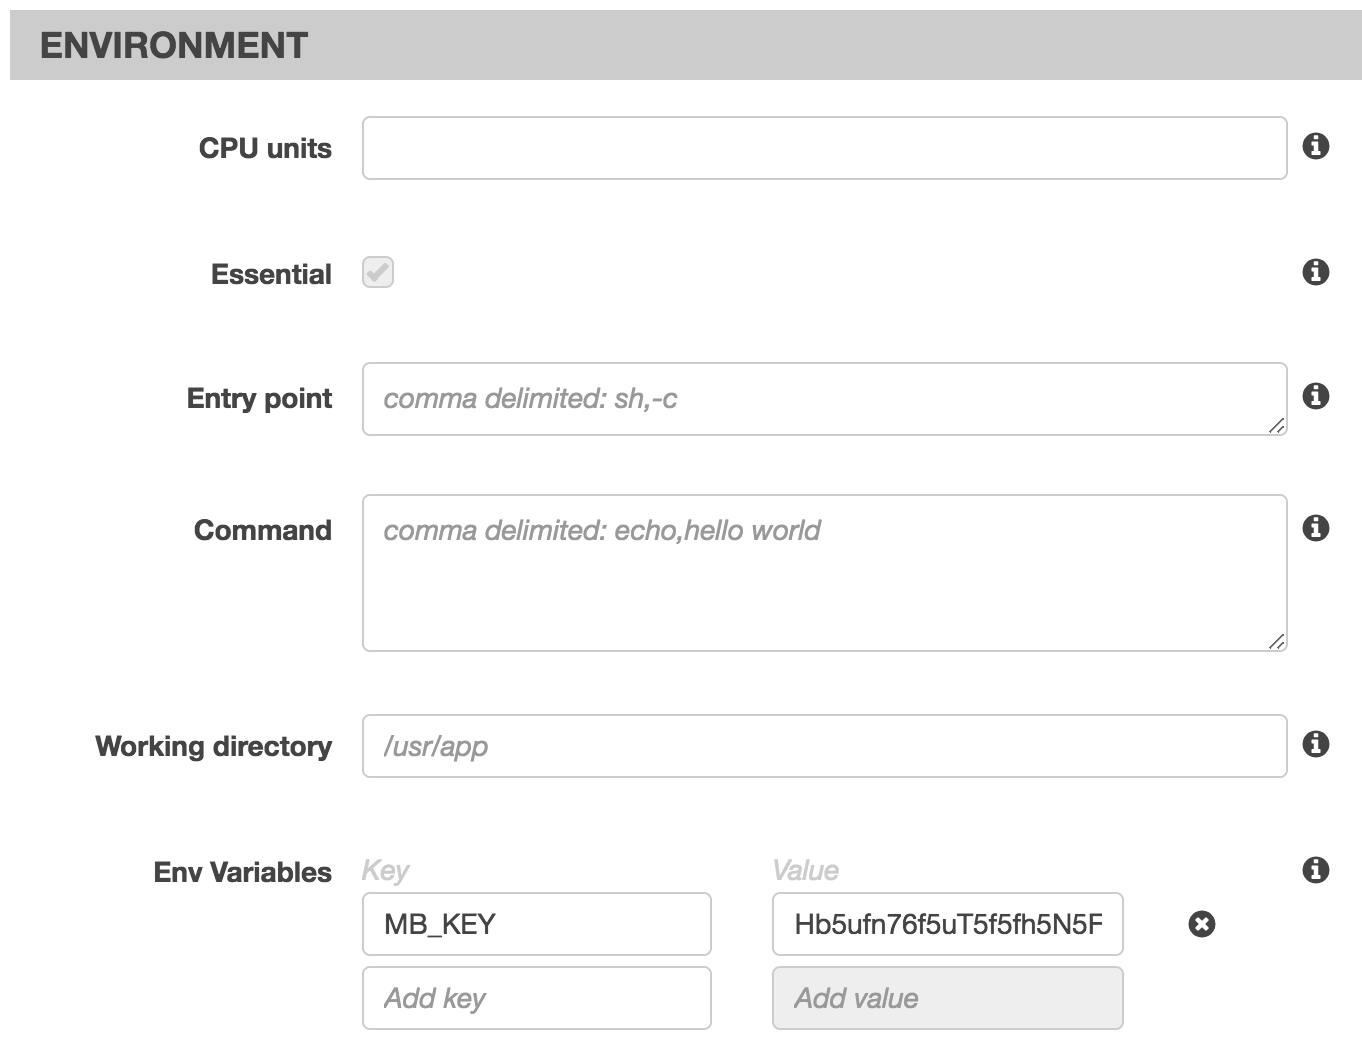
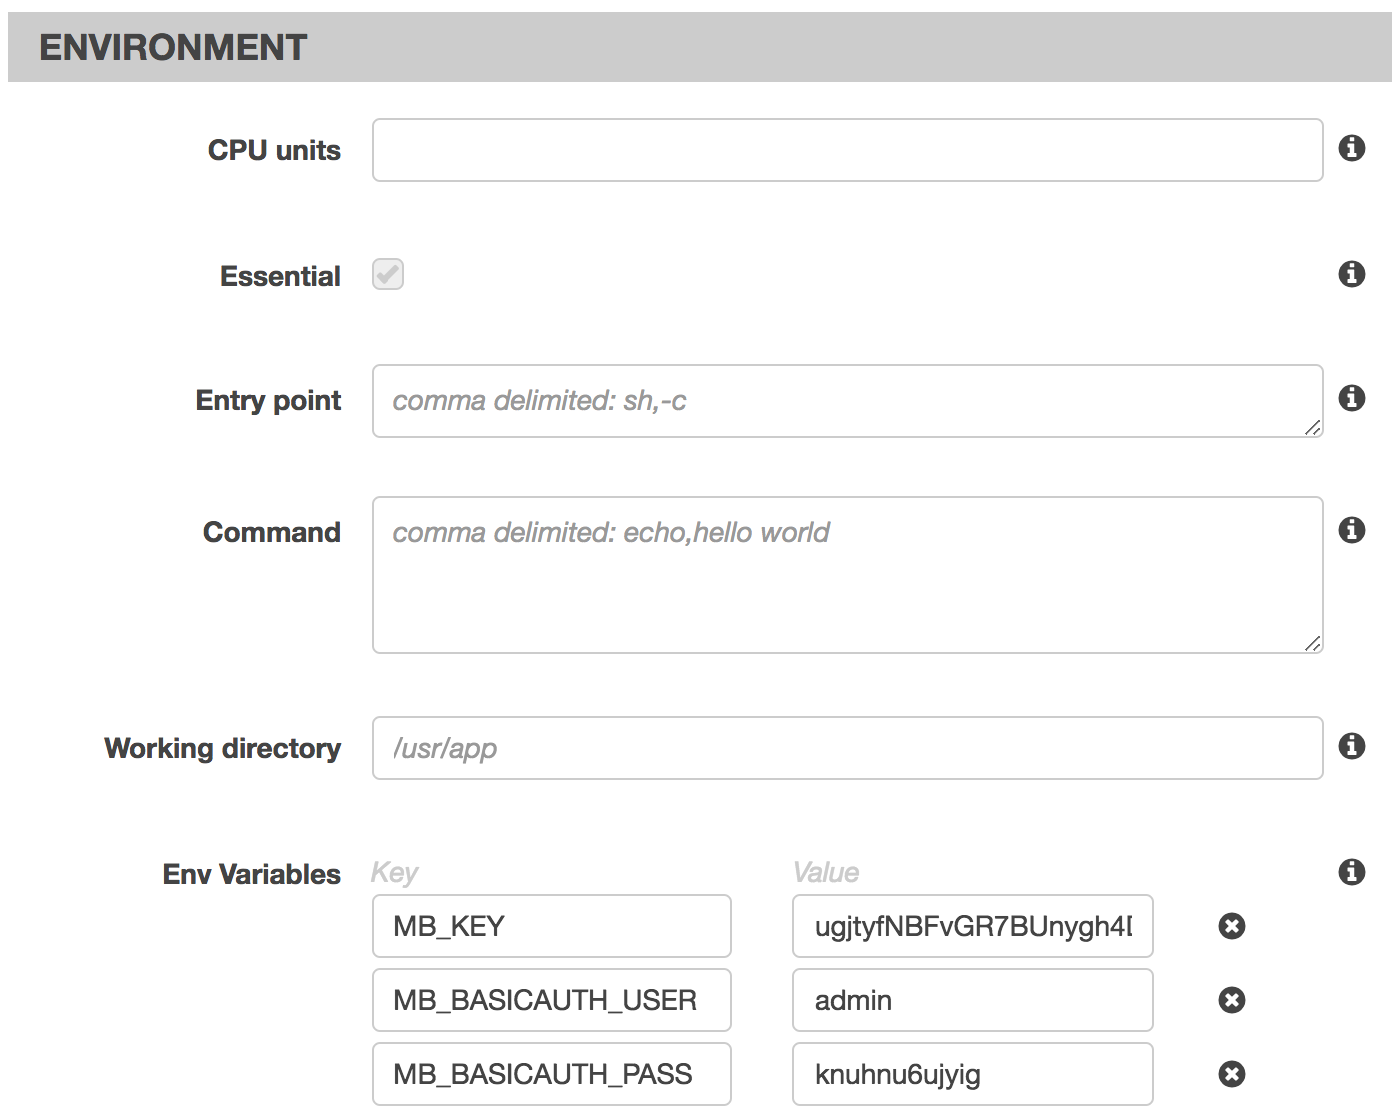
Modify content/deploying-facebox-to-aws-ecs.md

diff --git a/content/deploying-facebox-to-aws-ecs.md b/content/deploying-facebox-to-aws-ecs.md
@@ -25,11 +25,15 @@ Select `custom` image and click `Configure`.
 
 ### Container Configuration
 
-Set the container name and `machinebox/facebox` image, ECS will pull the one from Docker Hub. Machine Box team is [suggesting](https://machinebox.io/docs/setup/docker) to set at least 4GM RAM for your boxes, so we will set the memory limit as 4096. Facebox API is running on container port 8080, so we should expose it.
+Set the container name and `machinebox/facebox` image, ECS will pull the one from Docker Hub. Machine Box team is [suggesting](https://machinebox.io/docs/setup/docker) to set at least 4GM RAM for your boxes, so we will set the memory limit as 4096. Facebox API is running on container port 8080, so we should expose it. Fargate mode doesn't allow to specify different host port for mapping, so later we're gonna to fix it in EC2 Load Balancing section.
 
 ![Deploying Facebox to AWS ECS](/facebox-ecs2.png)
 
+### Environment variables
+
 When you sign up on [machinebox.io](https://machinebox.io) you will get a MB_KEY, which you should set as environment variable in `Advanced container configuration` section.
+
+Also as our Facebox will be accessible by public IP, it's better to protect it with [Basic Auth](https://machinebox.io/docs/machine-box-apis#basic-authentication), so we set `MB_BASICAUTH_USER` and `MB_BASICAUTH_PASS` environment variables. All requests to the box must now include the Basic Authentication HTTP header.
 
 ![Deploying Facebox to AWS ECS](/facebox-ecs3.png)
 
@@ -51,6 +55,12 @@ Set a cluster name, and click `Create`. It will take few minutes for ECS to pull
 
 ### Check it out
 
-As we enabled Application Load Balancing you will be able to access your Facebox Console by public IP (do not forget to add `:8080`).
+Now let's change listener port from 8080 to 80, open EC2 -> Load Balancers, go to Listeners tab, find 8080 listener and click `Edit`. Change 8080 to 80.
+
+![Deploying Facebox to AWS ECS](/facebox-ecs7.png)
+
+As we enabled Application Load Balancing you will be able to access your Facebox Console by a public endpoint. You can find it in your ECS service or in Load Balancer description.
+
+Enter your Basic Auth username / password and you will be able to see the Console.
 
 ![Deploying Facebox to AWS ECS](/facebox-ecs6.png)
